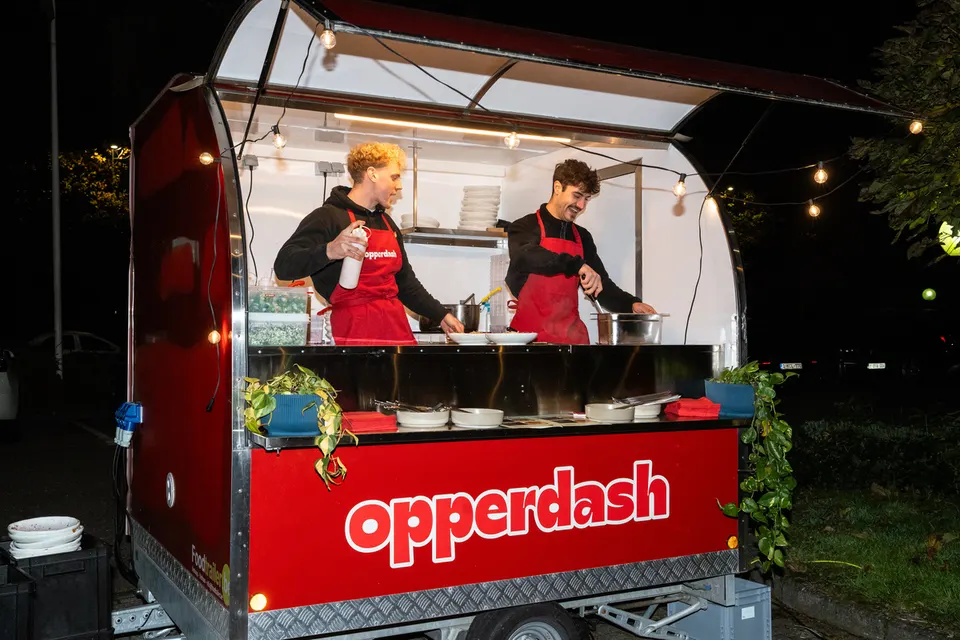
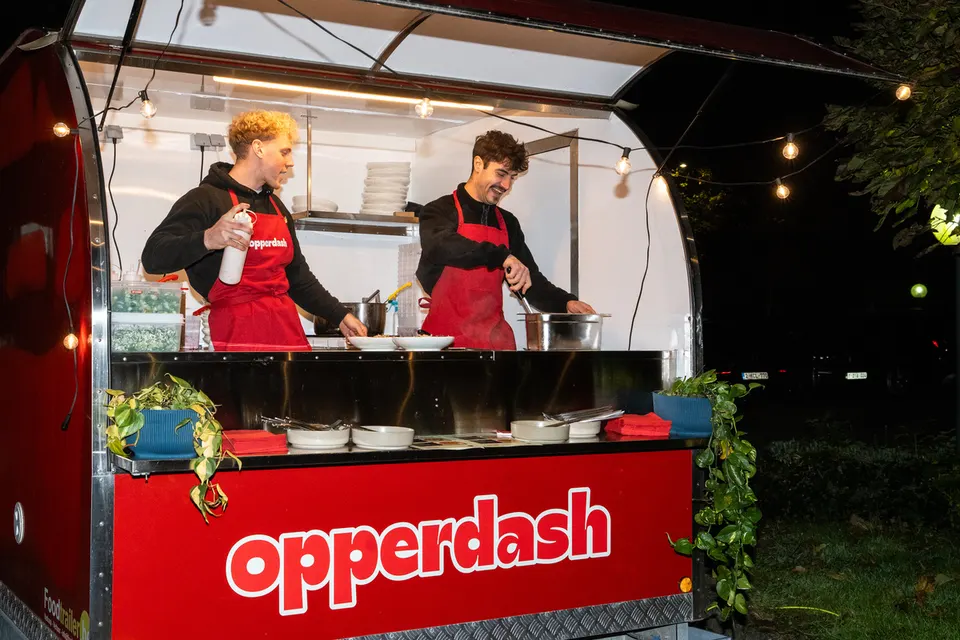
Home: blok "Catering voor bedrijven" weg, Asmodee-foto links bijgesneden
- Het onderste blok op de home verdwijnt in NL, EN en FR: foodtruck en
  catering staan al in de hero en in de fotokaarten
- Asmodee-foto opnieuw uitgesneden, zonder de stekkers links van de truck

diff --git a/public/fr/index.html b/public/fr/index.html
@@ -142,20 +142,6 @@
     <div class="knoppen cases-knop"><a class="knop" href="/fr/references/">Références</a></div>
   </div>
 </section>
-
-<section class="sectie sectie--split sectie--zand">
-  <div class="duo">
-    <div class="duo__tekst">
-      <h2>Traiteur pour entreprises.</h2>
-      <p>Un lunch d’entreprise, un événement d’équipe ou une fête du personnel : je viens avec le food truck, j’installe un buffet ou j’assure le traiteur dans la formule qui convient à votre événement. La base reste la même : des plats savoureux qui sont aussi sains pour le corps.</p>
-      <div class="knoppen">
-        <a class="knop knop--klein" href="/fr/food-truck">Food truck</a>
-        <a class="knop knop--salie knop--klein" href="/fr/traiteur">Traiteur</a>
-      </div>
-    </div>
-    <div class="duo__beeld"><img src="/assets/img/home-bedrijven.webp" alt="Plat culinaire aux influences méditerranéennes sur une assiette en céramique" width="962" height="641" loading="lazy" decoding="async"></div>
-  </div>
-</section>
 </main>
 <footer class="footer">
   <div class="container">

diff --git a/public/index.html b/public/index.html
@@ -142,20 +142,6 @@
     <div class="knoppen cases-knop"><a class="knop" href="/cases/">Cases</a></div>
   </div>
 </section>
-
-<section class="sectie sectie--split sectie--zand">
-  <div class="duo">
-    <div class="duo__tekst">
-      <h2>Catering voor bedrijven.</h2>
-      <p>Een bedrijfslunch, teamevent of personeelsfeest: ik kom met de foodtruck, zet een buffet of verzorg catering in de vorm die bij je event past. De basis blijft dezelfde: smaakvolle gerechten die ook gezond zijn voor het lichaam.</p>
-      <div class="knoppen">
-        <a class="knop knop--klein" href="/foodtruck">Foodtruck</a>
-        <a class="knop knop--salie knop--klein" href="/catering">Catering</a>
-      </div>
-    </div>
-    <div class="duo__beeld"><img src="/assets/img/home-bedrijven.webp" alt="Culinair gerecht met mediterrane invloeden op een keramisch bord" width="962" height="641" loading="lazy" decoding="async"></div>
-  </div>
-</section>
 </main>
 <footer class="footer">
   <div class="container">

diff --git a/public/en/index.html b/public/en/index.html
@@ -142,20 +142,6 @@
     <div class="knoppen cases-knop"><a class="knop" href="/en/cases/">Cases</a></div>
   </div>
 </section>
-
-<section class="sectie sectie--split sectie--zand">
-  <div class="duo">
-    <div class="duo__tekst">
-      <h2>Catering for companies.</h2>
-      <p>A company lunch, team event or staff party: I bring the food truck, set up a buffet or cater in the format that suits your event. The base stays the same: flavourful dishes that are also healthy for the body.</p>
-      <div class="knoppen">
-        <a class="knop knop--klein" href="/en/food-truck">Food truck</a>
-        <a class="knop knop--salie knop--klein" href="/en/catering">Catering</a>
-      </div>
-    </div>
-    <div class="duo__beeld"><img src="/assets/img/home-bedrijven.webp" alt="Culinary dish with Mediterranean influences on a ceramic plate" width="962" height="641" loading="lazy" decoding="async"></div>
-  </div>
-</section>
 </main>
 <footer class="footer">
   <div class="container">

diff --git a/bouw.py b/bouw.py
@@ -1311,20 +1311,6 @@ for L in TALEN:
     <div class="knoppen cases-knop"><a class="knop" href="{url("cases", L)}">{AANPAK[L]["c_knop"]}</a></div>
   </div>
 </section>
-
-<section class="sectie sectie--split sectie--zand">
-  <div class="duo">
-    <div class="duo__tekst">
-      <h2>{t["k4"]}</h2>
-      <p>{t["p4"]}</p>
-      <div class="knoppen">
-        <a class="knop knop--klein" href="{url("foodtruck", L)}">{t["b_truck"]}</a>
-        <a class="knop knop--salie knop--klein" href="{url("catering", L)}">{t["b_cat"]}</a>
-      </div>
-    </div>
-    <div class="duo__beeld">{img("home-bedrijven.webp", t["alt_bedr"], 962, 641)}</div>
-  </div>
-</section>
 ''', ogbeeld="og-home.jpg", ogalt=t["alt_hero"], schema=[org(L), {"@type": "WebSite", "@id": SITE + "/#website", "url": SITE + "/", "name": "Opperdash",
                       "inLanguage": ["nl-BE", "en", "fr-BE"], "publisher": {"@id": ORG_ID}}])
 
